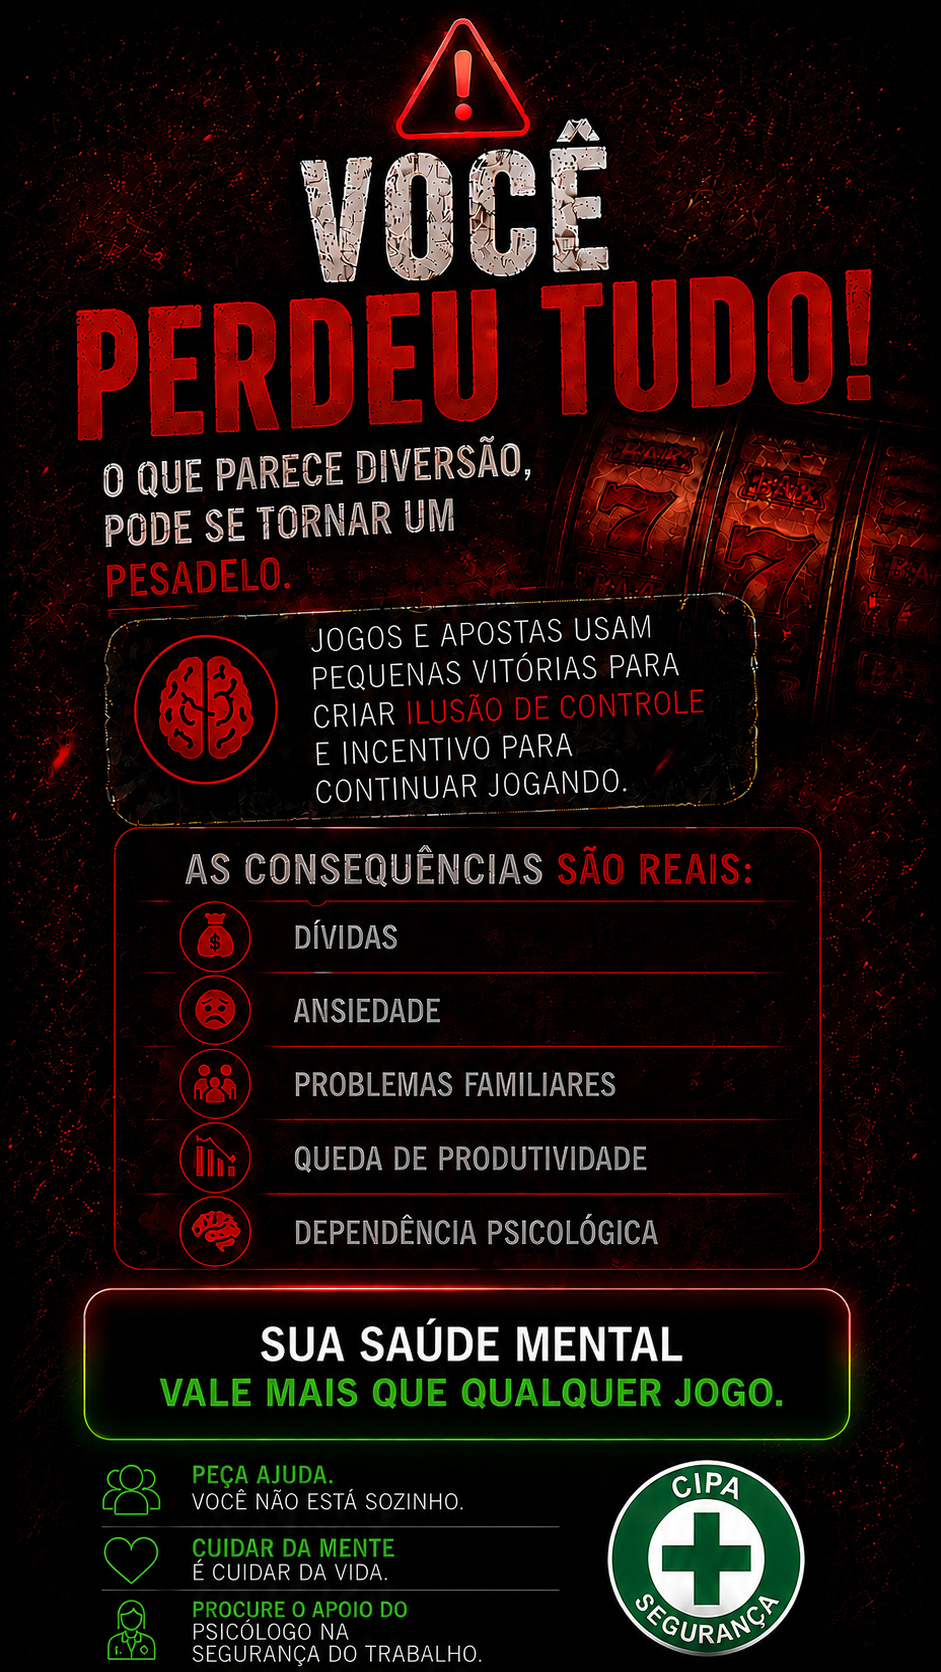
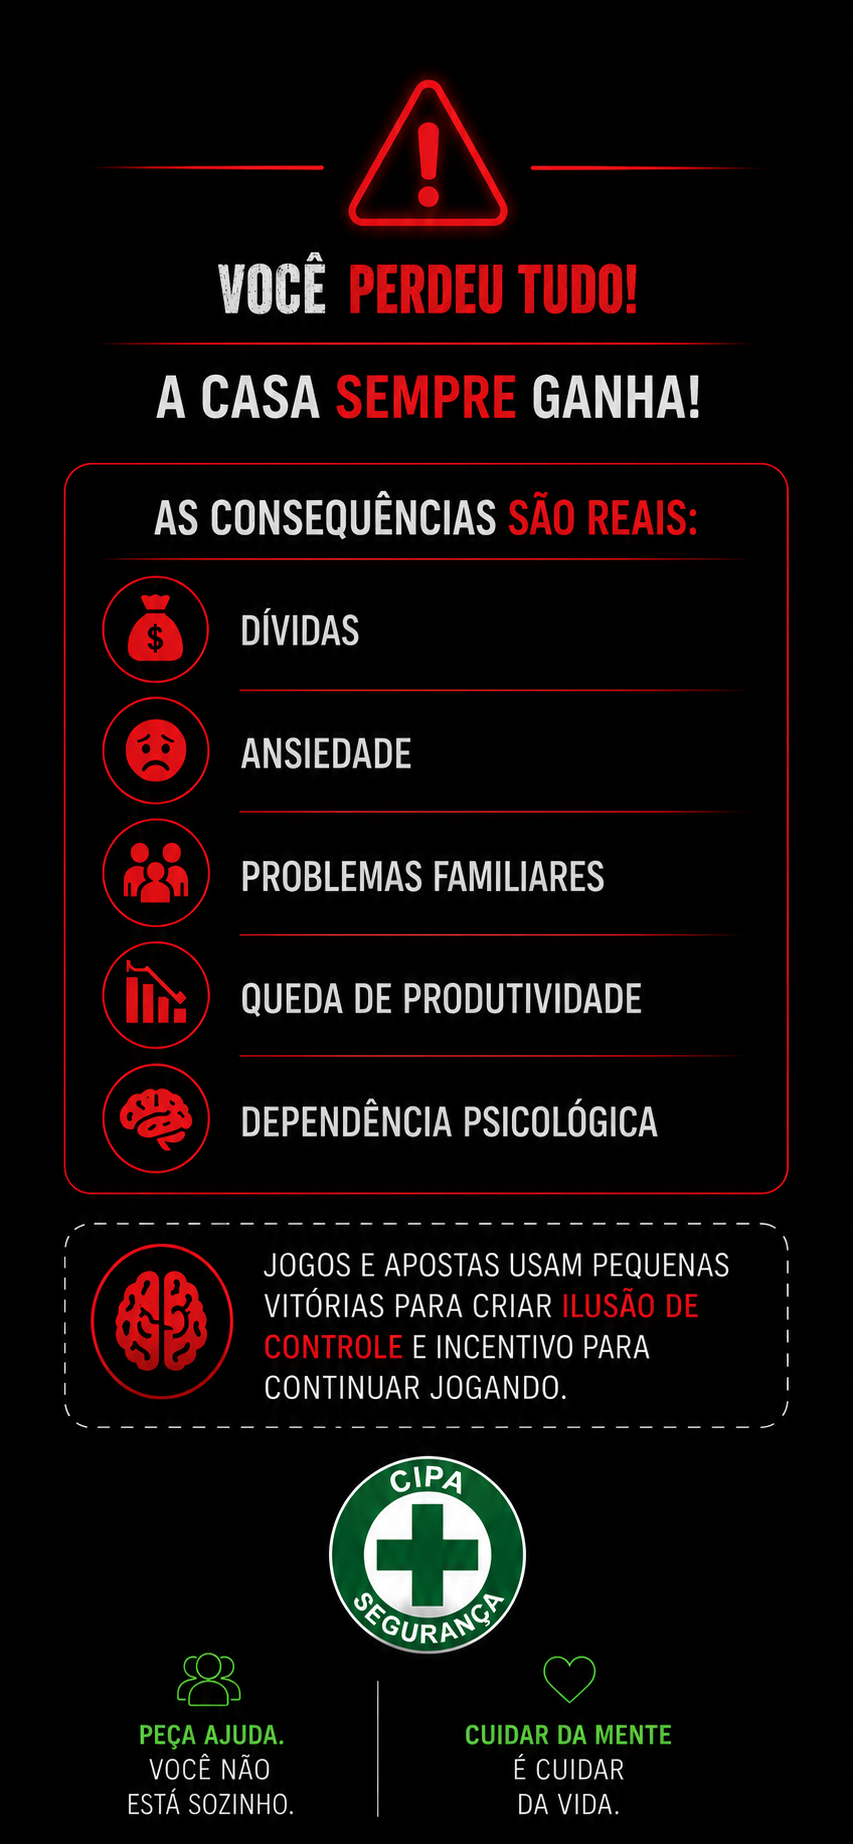
Modificações

diff --git a/style.css b/style.css
@@ -536,6 +536,12 @@ button:hover{
 
 .debt-screen{
 
+    position:relative;
+
+    width:100%;
+
+    max-width:420px;
+
     display:flex;
 
     flex-direction:column;
@@ -543,11 +549,7 @@ button:hover{
     justify-content:center;
 
     align-items:center;
-
-    gap:30px;
-
-    width:100%;
-
+    
     height:100%;
 
 }
@@ -555,47 +557,127 @@ button:hover{
 .debt-image{
 
     width:100%;
+    max-height:85vh;
+    object-fit:contain;
+    border-radius:25px;
+    display:block;
 
-    max-width:420px;
+    /*max-width:420px;
 
     border-radius:24px;
 
     box-shadow:
     0 0 20px red,
-    0 0 60px rgba(255,0,0,.5);
+    0 0 60px rgba(255,0,0,.5);*/
 
 }
+
+/* ===================================== */
+/* BOTÃO JOGAR NOVAMENTE */
+/* ===================================== */
 
 .retry-btn{
 
-    background:#ff3b3b;
+    position:absolute;
 
-    color:white;
+    bottom:80px;
 
-    font-size:22px;
+    left:50%;
 
-    font-weight:bold;
+    transform:translateX(-50%);
 
-    padding:18px;
+    width:75%;
+
+    max-width:420px;
+
+    padding:22px;
 
     border:none;
 
-    border-radius:18px;
-
-    width:100%;
-
-    max-width:350px;
+    border-radius:20px;
 
     cursor:pointer;
 
-    transition:.3s;
+    font-size:28px;
+
+    font-weight:bold;
+
+    letter-spacing:2px;
+
+    color:#ffffff;
+
+    /* AZUL NEON */
+
+    background:
+    linear-gradient(
+    180deg,
+    #3aa8ff,
+    #007bff,
+    #0055ff
+    );
+
+    /* GLOW */
+
+    box-shadow:
+    0 0 10px #00aaff,
+    0 0 25px #008cff,
+    0 0 50px rgba(0,140,255,.8);
+
+    /* TEXTO */
+
+    text-shadow:
+    0 0 5px rgba(255,255,255,.8),
+    0 0 15px rgba(0,170,255,.9);
+
+    transition:.25s;
+
+    z-index:10;
+
+    animation:pulseBlue 1.2s infinite;
 
 }
 
+/* ===================================== */
+/* HOVER */
+/* ===================================== */
+
 .retry-btn:hover{
 
-    transform:scale(1.05);
+    transform:
+    translateX(-50%)
+    scale(1.05);
 
-    background:#ff0000;
+    box-shadow:
+    0 0 20px #00aaff,
+    0 0 40px #008cff,
+    0 0 80px rgba(0,170,255,1);
+
+}
+
+@keyframes pulseGold{
+
+    0%{
+
+        transform:
+        translateX(-50%)
+        scale(1);
+
+    }
+
+    50%{
+
+        transform:
+        translateX(-50%)
+        scale(1.04);
+
+    }
+
+    100%{
+
+        transform:
+        translateX(-50%)
+        scale(1);
+
+    }
 
 }

diff --git a/script.js b/script.js
@@ -169,6 +169,9 @@ function spinAnimation(){
 
 function play(){
 
+    /*Limpa Mensagem*/
+    document.getElementById("message").innerHTML = "";
+
     /* Desativa botão */
     document.getElementById("playBtn").disabled = true;
 
@@ -423,7 +426,7 @@ async function result(){
         coins -= perda;
         playSounds("lose");
         setMessage(
-        `😨 QUASE! VOCÊ PERDEU ${perda}`,
+        `😨 QUASE! VOCÊ PERDEU ${perda} MOEDAS`,
         "yellow"
         );
 
@@ -491,32 +494,29 @@ async function result(){
 
         setTimeout(()=>{
 
-            document.getElementById("gameScreen")
-            .innerHTML = `
+        document.getElementById("gameScreen").innerHTML = `
 
-            <div class="debt-screen">
+        <div class="debt-screen">
 
-                <img
-                src="divida.png"
-                class="debt-image">
+        <img
+        src="divida.png"
+        class="debt-image">
 
-                <button
-                class="retry-btn"
-                onclick="location.reload()">
+        <button
+        class="retry-btn"
+        onclick="location.reload()">
 
-                    JOGAR NOVAMENTE
+            🎰 JOGAR NOVAMENTE
 
-                </button>
+        </button>
 
-            </div>
+        </div>
+        `;
 
-            `;
-
-        },3000);
+    },3000);
 
         return;
-
-    }
+}
 
     /* ================================= */
     /* LIBERA BOTÃO */
